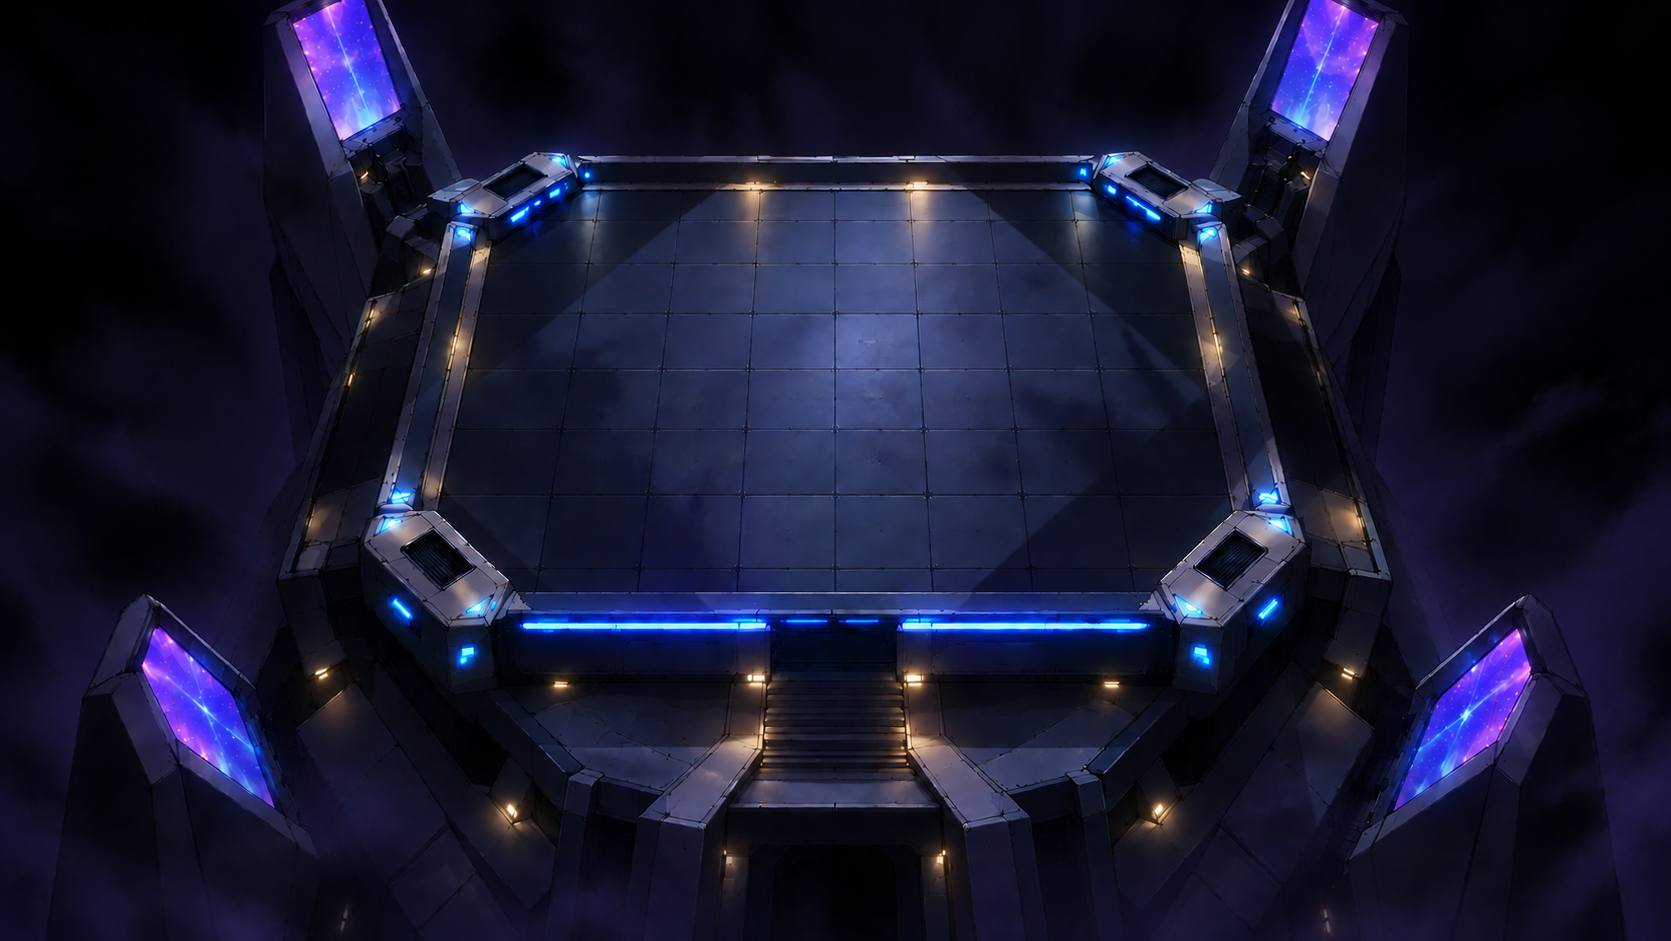
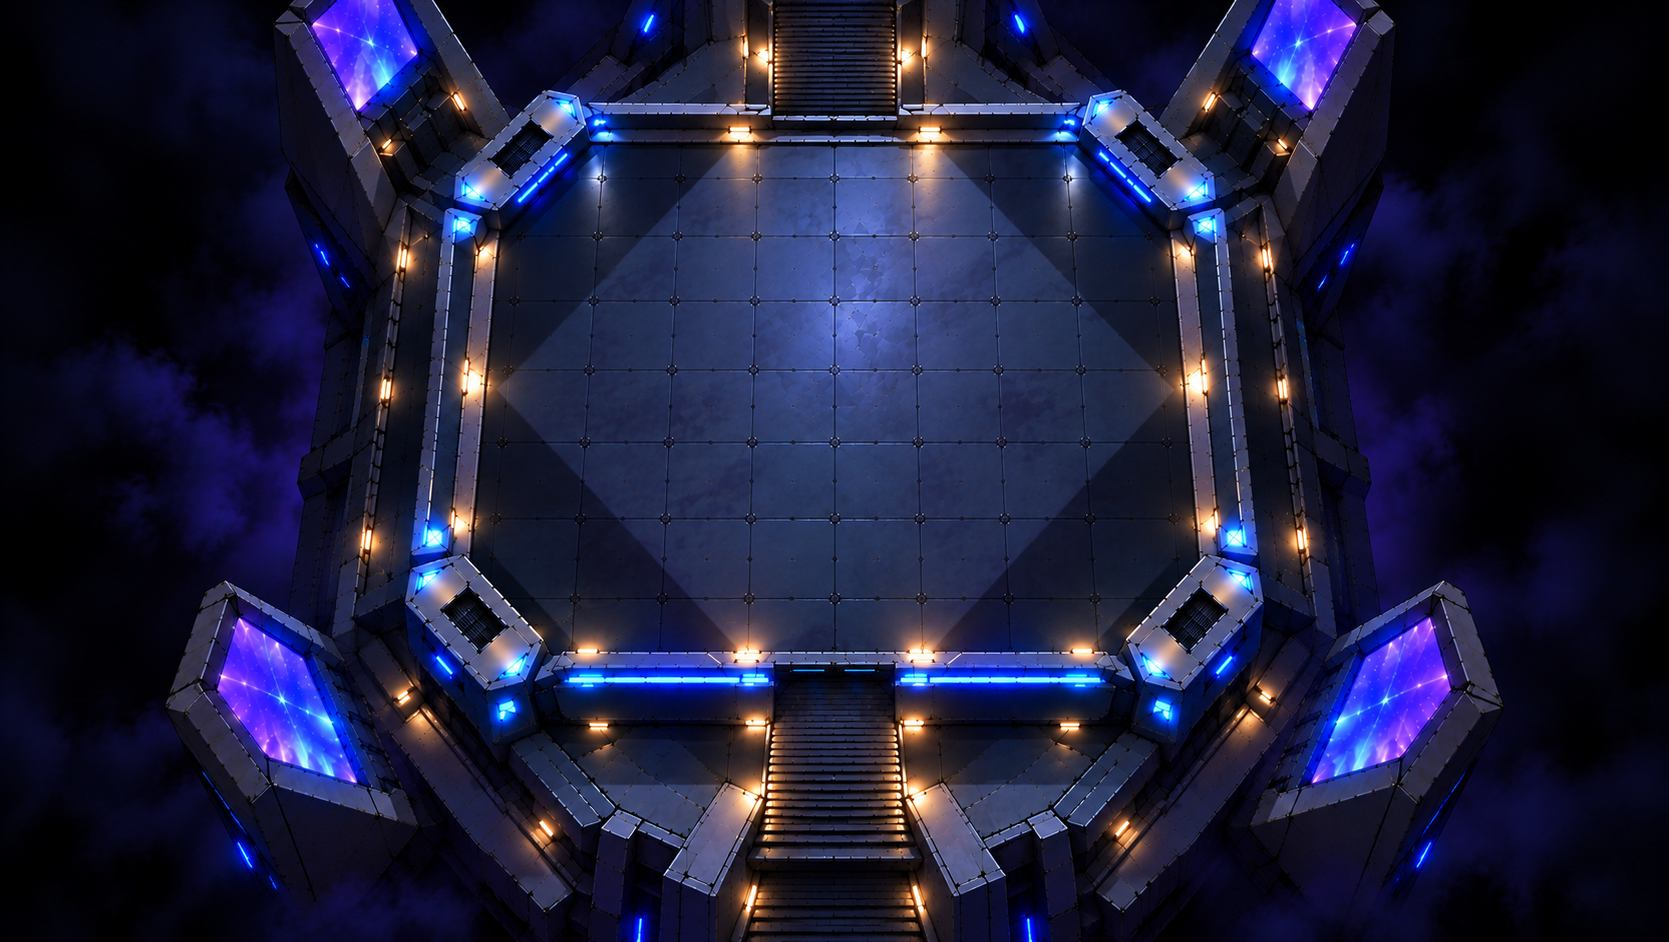
Nuove immagini per 9 campi, e 3 campi nuovi (Acquatico, Foresta, Montagna)
Aggiornati dal set fornito dall'utente: anticoEgittoPiazzaGiorno/Notte,
anticoEgittoTempio/Oscuro, arenaAnticoEgittoGiorno/Notte,
torreDeiDuelli/Colosseo/Shadow. Convertiti in JPG con gli stessi
parametri usati finora (qualita' 90 desktop / 78 mobile).

Tre campi erano nuovi e non esistevano nel catalogo: campoAcquatico,
campoForesta, campoMontagna, aggiunti a js/data/arena-options.js
(FIELDS) con nome italiano - compaiono ora ovunque si scelga l'arena di
un duello.

Verificato che tutti i 35 campi del catalogo esistano in entrambe le
cartelle (desktop e mobile). sw.js v105.

diff --git a/sw.js b/sw.js
@@ -180,6 +180,10 @@
 // riempire lo schermo, e si riadatta alla rotazione. Nessun file nuovo.
 // v60: Storia — ritorno alla mappa della campagna a fine duello, tappe
 // rigiocabili, conferma prima di ricominciare. Nessun file nuovo.
+// v105: nuove immagini per 9 campi esistenti (anticoEgittoPiazzaGiorno/
+// Notte, anticoEgittoTempio/Oscuro, arenaAnticoEgittoGiorno/Notte,
+// torreDeiDuelli/Colosseo/Shadow) e 3 campi nuovi aggiunti al catalogo
+// (campoAcquatico, campoForesta, campoMontagna — js/data/arena-options.js).
 // v104: seconda versione dell'immagine del campo Mondo Virtuale - Arena
 // di Gozaburo (l'utente l'ha ricambiata, stesso nome di file).
 // v103: nuova immagine del campo Mondo Virtuale - Arena di Gozaburo
@@ -327,7 +331,7 @@
 // quindi cache-first). Le altre campagne puntano già al nome della
 // propria, che ancora non esiste: il bump serve perché chi avesse in
 // cache un 404 a quei percorsi non se lo porti dietro.
-const CACHE_NAME = 'ygo-duel-arena-v104';
+const CACHE_NAME = 'ygo-duel-arena-v105';
 
 // L'intera "app shell": tutte le pagine HTML + tutto il codice JS/CSS che
 // le fa funzionare. Leggero (pochi MB in tutto), quindi si può precaricare

diff --git a/js/data/arena-options.js b/js/data/arena-options.js
@@ -55,6 +55,9 @@
         { file: 'citta.jpg', nome: 'La Città' },
         { file: 'campoPrato.jpg', nome: 'Prateria' },
         { file: 'campoGhiaccio.jpg', nome: 'Distesa di Ghiaccio' },
+        { file: 'campoAcquatico.jpg', nome: 'Campo Acquatico' },
+        { file: 'campoForesta.jpg', nome: 'Campo della Foresta' },
+        { file: 'campoMontagna.jpg', nome: 'Campo di Montagna' },
         { file: 'rovineAntiche.jpg', nome: 'Rovine Antiche' },
         { file: 'rovineAnticoEgittoGiorno.jpg', nome: 'Rovine Egizie — Giorno' },
         { file: 'rovineAnticoEgittoNotte.jpg', nome: 'Rovine Egizie — Notte' },
